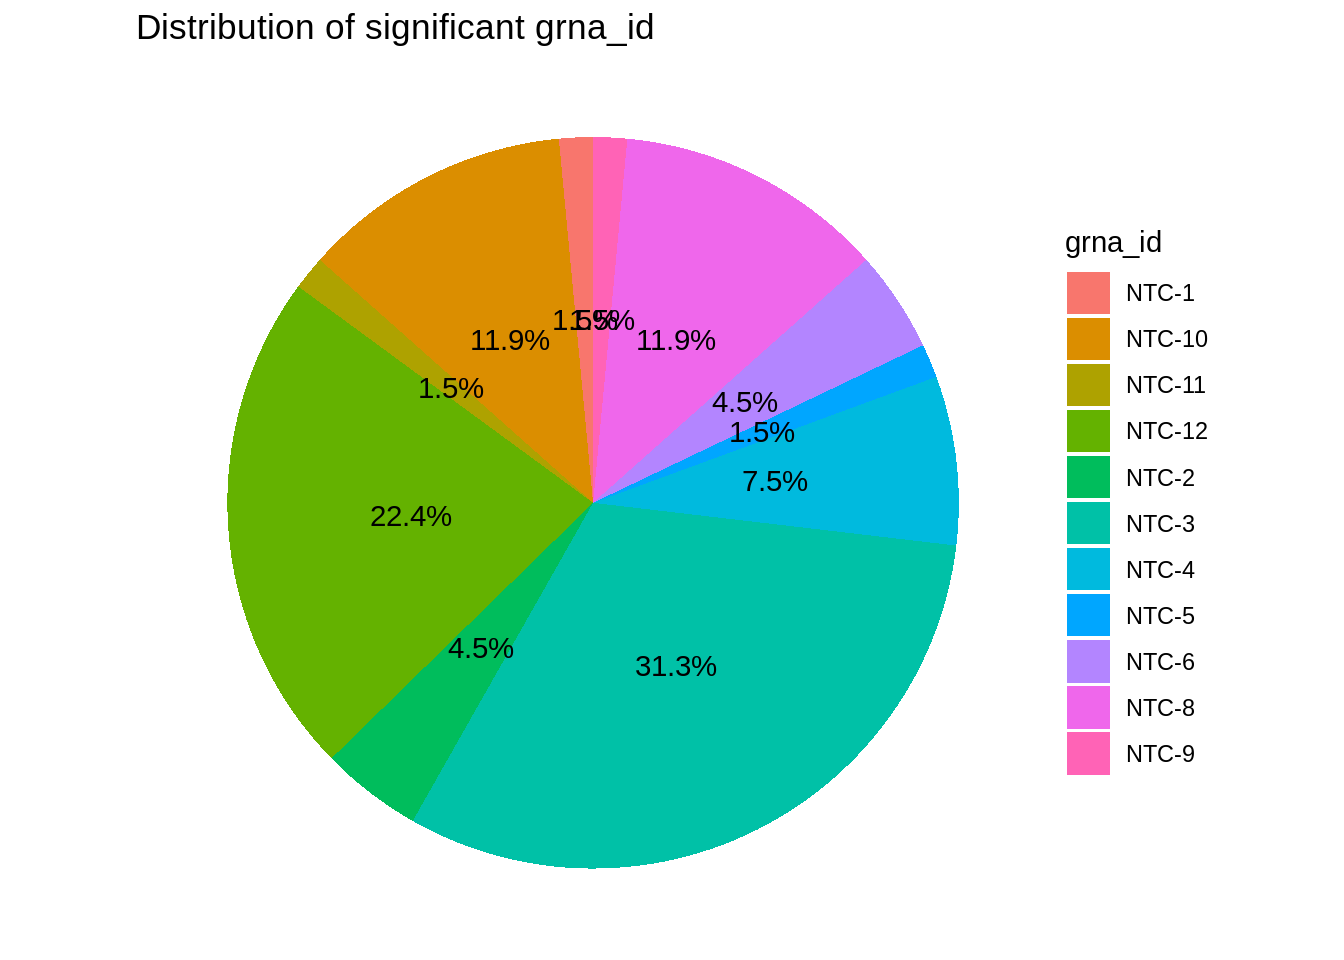
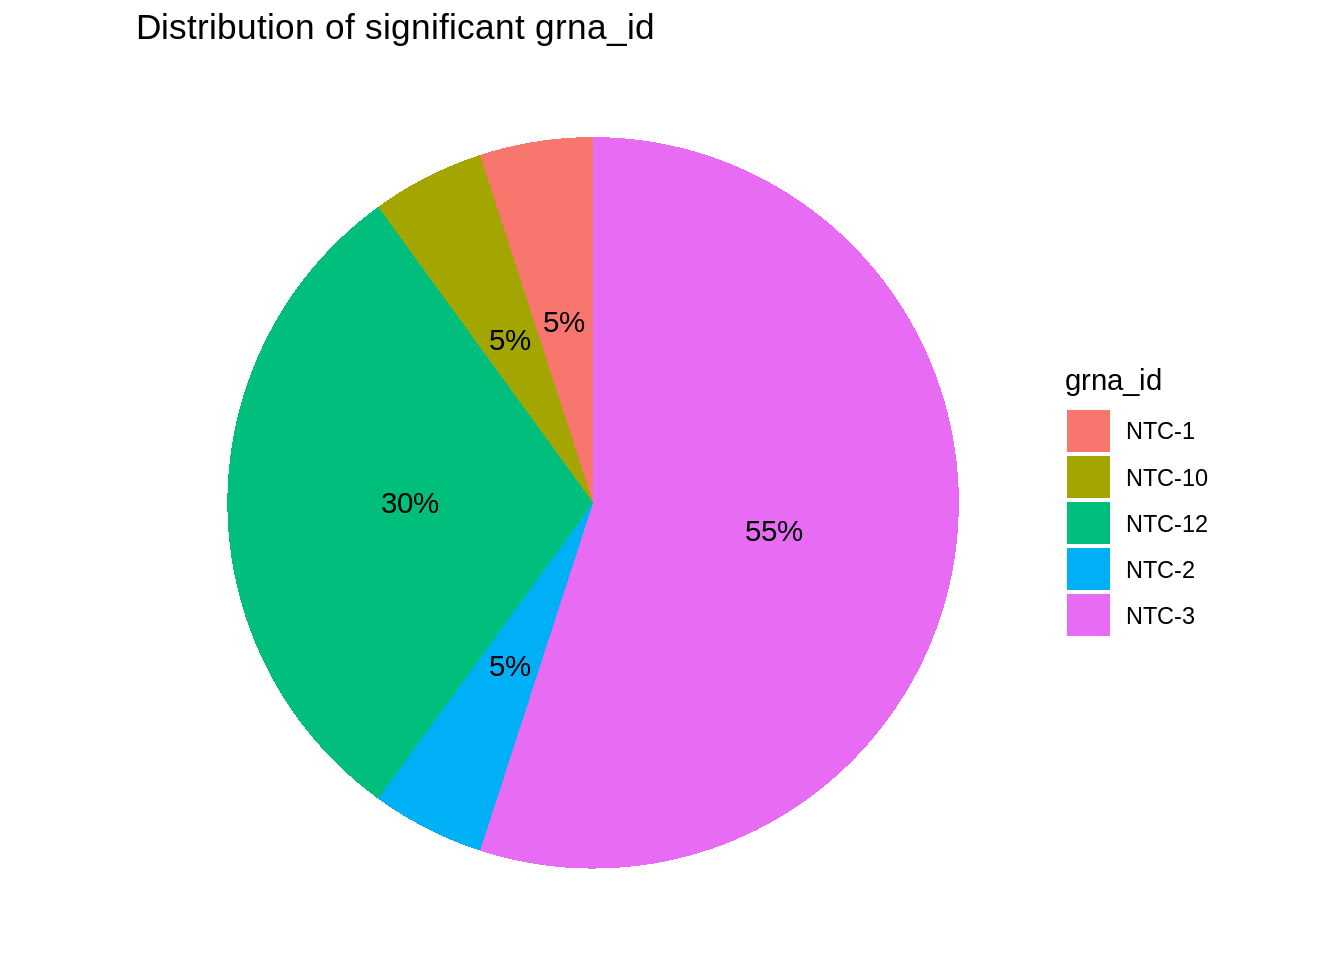
Build site.

diff --git a/docs/qqplot.html b/docs/qqplot.html
@@ -388,7 +388,7 @@ div.tocify {
 <div class="tab-content">
 <div id="summary" class="tab-pane fade in active">
 <p>
-<strong>Last updated:</strong> 2024-08-08
+<strong>Last updated:</strong> 2024-08-18
 </p>
 <p>
 <strong>Checks:</strong> <span class="glyphicon glyphicon-ok text-success" aria-hidden="true"></span> 6 <span class="glyphicon glyphicon-exclamation-sign text-danger" aria-hidden="true"></span> 1
@@ -511,16 +511,16 @@ output/sceptre_trans_singleton
 <div class="panel panel-default">
 <div class="panel-heading">
 <p class="panel-title">
-<a data-toggle="collapse" data-parent="#workflowr-checks" href="#strongRepositoryversionstrongahrefhttpsgithubcomjliucxsceptretree5c39eadf7e9384635fe6ccf1240c72a79c5963d9targetblank5c39eada"> <span class="glyphicon glyphicon-ok text-success" aria-hidden="true"></span> <strong>Repository version:</strong> <a href="https://github.com/jliucx/sceptre/tree/5c39eadf7e9384635fe6ccf1240c72a79c5963d9" target="_blank">5c39ead</a> </a>
+<a data-toggle="collapse" data-parent="#workflowr-checks" href="#strongRepositoryversionstrongahrefhttpsgithubcomjliucxsceptretree8ab80786f6925537d65c65bb9482e9ec0aa9cc62targetblank8ab8078a"> <span class="glyphicon glyphicon-ok text-success" aria-hidden="true"></span> <strong>Repository version:</strong> <a href="https://github.com/jliucx/sceptre/tree/8ab80786f6925537d65c65bb9482e9ec0aa9cc62" target="_blank">8ab8078</a> </a>
 </p>
 </div>
[2 lines of base64/hex data omitted]
 <div class="panel-body">
 <p>
 Great! You are using Git for version control. Tracking code development and connecting the code version to the results is critical for reproducibility.
 </p>
 <p>
-The results in this page were generated with repository version <a href="https://github.com/jliucx/sceptre/tree/5c39eadf7e9384635fe6ccf1240c72a79c5963d9" target="_blank">5c39ead</a>. See the <em>Past versions</em> tab to see a history of the changes made to the R Markdown and HTML files.
+The results in this page were generated with repository version <a href="https://github.com/jliucx/sceptre/tree/8ab80786f6925537d65c65bb9482e9ec0aa9cc62" target="_blank">8ab8078</a>. See the <em>Past versions</em> tab to see a history of the changes made to the R Markdown and HTML files.
 </p>
 <p>
 Note that you need to be careful to ensure that all relevant files for the analysis have been committed to Git prior to generating the results (you can use <code>wflow_publish</code> or <code>wflow_git_commit</code>). workflowr only checks the R Markdown file, but you know if there are other scripts or data files that it depends on. Below is the status of the Git repository when the results were generated:
@@ -549,9 +549,11 @@ Untracked files:
     Untracked:  output/sceptre_outputs_cis_threshold5/
     Untracked:  output/sceptre_outputs_trans_omit_NTC3_12/
     Untracked:  output/sceptre_outputs_trans_singleton/
-    Untracked:  output/sceptre_outputs_trans_singleton_omit_NTC3_12/
     Untracked:  output/sceptre_outputs_trans_threshold/
     Untracked:  output/sceptre_outputs_trans_threshold_omit_NTC3_12/
+    Untracked:  output/trans_singleton_threshold5/
+    Untracked:  output/trans_singleton_threshold_author/
+    Untracked:  output/trans_singleton_threshold_author_omit/
     Untracked:  output/try_rcc/
 
 Unstaged changes:
@@ -602,6 +604,40 @@ Message
 </tr>
 </thead>
 <tbody>
+<tr>
+<td>
+Rmd
+</td>
+<td>
+<a href="https://github.com/jliucx/sceptre/blob/8ab80786f6925537d65c65bb9482e9ec0aa9cc62/analysis/qqplot.Rmd" target="_blank">8ab8078</a>
+</td>
+<td>
+jliucx
+</td>
+<td>
+2024-08-18
+</td>
+<td>
+update graph
+</td>
+</tr>
+<tr>
+<td>
+html
+</td>
+<td>
+<a href="https://rawcdn.githack.com/jliucx/sceptre/280dd2f477533b624bc22bf97e687f907c07307d/docs/qqplot.html" target="_blank">280dd2f</a>
+</td>
+<td>
+jliucx
+</td>
+<td>
+2024-08-09
+</td>
+<td>
+Build site.
+</td>
+</tr>
 <tr>
 <td>
 Rmd
@@ -1121,31 +1157,32 @@ results_run_calibration_check &lt;- results_run_calibration_check %&gt;%
 
 results_run_calibration_check[c(1:10,70:80),c(1,2,7,9,10)]</code></pre>
 <pre><code>       response_id grna_id      p_value significant  adj_p_value
-1  ENSG00000111371   NTC-3 2.098900e-37        TRUE 3.265784e-32
-2  ENSG00000105397   NTC-3 5.915662e-15        TRUE 4.602237e-10
-3  ENSG00000134453   NTC-3 5.164750e-10        TRUE 2.678698e-05
-4  ENSG00000140543   NTC-8 3.345412e-09        TRUE 1.301324e-04
-5  ENSG00000148288  NTC-12 7.148804e-09        TRUE 2.224636e-04
-6  ENSG00000134419   NTC-8 3.212665e-08        TRUE 8.331244e-04
-7  ENSG00000239672   NTC-3 2.209987e-07        TRUE 4.912327e-03
-8  ENSG00000126432   NTC-3 7.304610e-07        TRUE 1.378937e-02
-9  ENSG00000148303   NTC-8 9.435981e-07        TRUE 1.378937e-02
-10 ENSG00000171863  NTC-10 1.010959e-06        TRUE 1.378937e-02
-70 ENSG00000103021  NTC-12 4.580678e-05       FALSE 1.007067e-01
-71 ENSG00000102390   NTC-5 4.595377e-05       FALSE 1.007067e-01
-72 ENSG00000160446  NTC-11 4.913498e-05       FALSE 1.061827e-01
-73 ENSG00000152795   NTC-3 5.197139e-05       FALSE 1.105604e-01
-74 ENSG00000142937   NTC-8 5.258184e-05       FALSE 1.105604e-01
-75 ENSG00000114779   NTC-8 5.346174e-05       FALSE 1.109117e-01
-76 ENSG00000160229   NTC-6 5.593555e-05       FALSE 1.134165e-01
-77 ENSG00000165732   NTC-3 5.636354e-05       FALSE 1.134165e-01
-78 ENSG00000149646  NTC-12 5.685587e-05       FALSE 1.134165e-01
-79 ENSG00000274997   NTC-9 5.962407e-05       FALSE 1.174330e-01
-80 ENSG00000165629  NTC-12 6.113559e-05       FALSE 1.187852e-01</code></pre>
+1  ENSG00000111371   NTC-3 1.049450e-37        TRUE 1.632892e-32
+2  ENSG00000105397   NTC-3 2.957831e-15        TRUE 2.301118e-10
+3  ENSG00000134453   NTC-3 2.582375e-10        TRUE 1.339349e-05
+4  ENSG00000148288  NTC-12 3.574402e-09        TRUE 1.390398e-04
+5  ENSG00000239672   NTC-3 1.104993e-07        TRUE 3.438629e-03
+6  ENSG00000187688   NTC-3 5.832702e-07        TRUE 1.299619e-02
+7  ENSG00000137076  NTC-10 5.846803e-07        TRUE 1.299619e-02
+8  ENSG00000243678   NTC-3 2.121310e-06        TRUE 3.915296e-02
+9  ENSG00000204713   NTC-2 2.464063e-06        TRUE 3.915296e-02
+10 ENSG00000159216  NTC-12 2.516338e-06        TRUE 3.915296e-02
+70 ENSG00000160193   NTC-3 1.072091e-04       FALSE 2.383028e-01
+71 ENSG00000128595  NTC-10 1.136595e-04       FALSE 2.411667e-01
+72 ENSG00000171988   NTC-8 1.184455e-04       FALSE 2.411667e-01
+73 ENSG00000133641   NTC-3 1.207168e-04       FALSE 2.411667e-01
+74 ENSG00000166900   NTC-8 1.224104e-04       FALSE 2.411667e-01
+75 ENSG00000144451  NTC-12 1.232511e-04       FALSE 2.411667e-01
+76 ENSG00000157613  NTC-12 1.274534e-04       FALSE 2.411667e-01
+77 ENSG00000121766   NTC-3 1.303935e-04       FALSE 2.411667e-01
+78 ENSG00000224184   NTC-2 1.304994e-04       FALSE 2.411667e-01
+79 ENSG00000135829   NTC-3 1.318521e-04       FALSE 2.411667e-01
+80 ENSG00000124783  NTC-10 1.330355e-04       FALSE 2.411667e-01</code></pre>
 </div>
 <div id="individual-analysis-of-the-non-targeting-grnas" class="section level2">
 <h2>**Individual analysis of the non-targeting gRNAs</h2>
-<p>We noticed that the calibration check result when we perform “trans analysis”(it also contains cis analysis) is inflated. To see whether there might be problem with NT gRNA design, we find that NTC-3 and NTC-12 contribute to over 50% percent of false positive discoveries.</p>
+<p>Although the p-values from “cis analysis” look good, we noticed that the calibration check result when we perform “trans analysis”(it also contains cis analysis) is inflated. The difference between p-values from “cis” analysis and “trans” analysis is that the former is a random subset of non-targeting gRNA and gene pairs, while the latter is a complete combination of all pairs of non-targeting gRNA and all genes. That is to say, the p-values from “cis” analysis is a random subset (1790 pairs) of those from “trans” analysis(155595 pairs).</p>
+<p>To see whether there might be problem with NT gRNA design, we find that NTC-3 and NTC-12 contribute to over 50% percent of false positive discoveries.</p>
 <pre class="r"><code>filtered_data &lt;- results_run_calibration_check %&gt;% filter(significant == TRUE)
 grna_count &lt;- filtered_data %&gt;%
   group_by(grna_id) %&gt;%
@@ -1247,13 +1284,13 @@ jliucx
 </div>
 <div id="trans-analysis-with-grna-method-using-mixture-model-singletonomitting-ntc-312" class="section level3">
 <h3>Trans analysis with gRNA method using mixture model (singleton)(omitting NTC-3&amp;12)</h3>
-<p><img src="images/trans_calibration_check_mixture_omitNTC3.png" style="display: block; margin: auto;" /></p>
+<p><img src="output/sceptre_outputs_trans_singleton_omit_NTC3_12/plot_run_calibration_check.png" style="display: block; margin: auto;" /></p>
 <p>
-<button type="button" class="btn btn-default btn-xs btn-workflowr btn-workflowr-fig" data-toggle="collapse" data-target="#fig-trans_calibration_check_mixture_omitNTC3">
-Past versions of trans_calibration_check_mixture_omitNTC3.png
+<button type="button" class="btn btn-default btn-xs btn-workflowr btn-workflowr-fig" data-toggle="collapse" data-target="#fig-plot_run_calibration_check">
+Past versions of plot_run_calibration_check.png
 </button>
 </p>
-<div id="fig-trans_calibration_check_mixture_omitNTC3" class="collapse">
+<div id="fig-plot_run_calibration_check" class="collapse">
 <div class="table-responsive">
 <table class="table table-condensed table-hover">
 <thead>
@@ -1272,20 +1309,20 @@ Date
 <tbody>
 <tr>
 <td>
-<a href="https://github.com/jliucx/sceptre/blob/a9b748bd06164d98f038e1f7f4024f4f894f3183/docs/images/trans_calibration_check_mixture_omitNTC3.png" target="_blank">a9b748b</a>
+<a href="https://github.com/jliucx/sceptre/blob/8ab80786f6925537d65c65bb9482e9ec0aa9cc62/docs/output/sceptre_outputs_trans_singleton_omit_NTC3_12/plot_run_calibration_check.png" target="_blank">8ab8078</a>
 </td>
 <td>
 jliucx
 </td>
 <td>
-2024-08-05
+2024-08-18
 </td>
 </tr>
 </tbody>
 </table>
 </div>
 </div>
-<p><a href="images/trans_mixture_omit.txt">text summary</a></p>
+<p><a href="output/sceptre_outputs_trans_singleton_omit_NTC3_12/analysis_summary.txt">text summary</a></p>
 </div>
 <div id="trans-analysis-with-grna-method-using-mixture-model" class="section level3">
 <h3>Trans analysis with gRNA method using mixture model</h3>
@@ -1697,88 +1734,6 @@ jliucx
 </div>
 </div>
 <p><a href="images/cis_threshold5.txt">text summary</a></p>
-</div>
-</div>
-<div id="conditional-resampling-algorithm" class="section level2">
-<h2>Conditional resampling algorithm</h2>
-<p><img src="images/sceptre_illustration.png" style="display: block; margin: auto;" /></p>
-<p>
-<button type="button" class="btn btn-default btn-xs btn-workflowr btn-workflowr-fig" data-toggle="collapse" data-target="#fig-sceptre_illustration">
-Past versions of sceptre_illustration.png
-</button>
-</p>
-<div id="fig-sceptre_illustration" class="collapse">
-<div class="table-responsive">
-<table class="table table-condensed table-hover">
-<thead>
-<tr>
-<th>
-Version
-</th>
-<th>
-Author
-</th>
-<th>
-Date
-</th>
-</tr>
-</thead>
-<tbody>
-<tr>
-<td>
-<a href="https://github.com/jliucx/sceptre/blob/a9b748bd06164d98f038e1f7f4024f4f894f3183/docs/images/sceptre_illustration.png" target="_blank">a9b748b</a>
-</td>
-<td>
-jliucx
-</td>
-<td>
-2024-08-05
-</td>
-</tr>
-</tbody>
-</table>
-</div>
-</div>
-<p><img src="images/methodology.png" style="display: block; margin: auto;" /></p>
-<p>
-<button type="button" class="btn btn-default btn-xs btn-workflowr btn-workflowr-fig" data-toggle="collapse" data-target="#fig-methodology">
-Past versions of methodology.png
-</button>
-</p>
-<div id="fig-methodology" class="collapse">
-<div class="table-responsive">
-<table class="table table-condensed table-hover">
-<thead>
-<tr>
-<th>
-Version
-</th>
-<th>
-Author
-</th>
-<th>
-Date
-</th>
-</tr>
-</thead>
-<tbody>
-<tr>
-<td>
-<a href="https://github.com/jliucx/sceptre/blob/a9b748bd06164d98f038e1f7f4024f4f894f3183/docs/images/methodology.png" target="_blank">a9b748b</a>
-</td>
-<td>
-jliucx
-</td>
-<td>
-2024-08-05
-</td>
-</tr>
-</tbody>
-</table>
-</div>
-</div>
-<p>My point is that the rationale for this resampling algorithm is to break the latent relationship of gRNA presence and gene expression and see whether the test statistics changes significantly. Suppose there are no direct relationship between gRNA presence and gene expression, then doing so won’t change the test statistics a lot.</p>
-<p>However, I think this method resample only based on the cell covariates, neglecting the fact that the measured gRNA presence is also determined by the real presence of gRNA. Hence resample based on regression on cell covariate may also break down the correlation between measured gRNA and true gRNA presence. This kind of test works definitely when we assume that measured gRNA presence are only determined by cell covariate. I am not sure whether doing conditional randomization test, conditioning only on the cell covariate is adequate in this sense. I think including the ture gRNA presence as a latent variable when doing conditional randomization test might be better, statistically.</p>
 <br>
 <p>
 <button type="button" class="btn btn-default btn-workflowr btn-workflowr-sessioninfo" data-toggle="collapse" data-target="#workflowr-sessioninfo" style="display: block;">
@@ -1823,6 +1778,7 @@ loaded via a namespace (and not attached):
 [49] whisker_0.4.1     pkgconfig_2.0.3   MASS_7.3-60       xml2_1.3.2       
 [53] svglite_2.0.0     rmarkdown_2.27    httr_1.4.2        rstudioapi_0.15.0
 [57] R6_2.5.1          git2r_0.32.0      compiler_4.1.0   </code></pre>
+</div>
 </div>
 </div>
 
